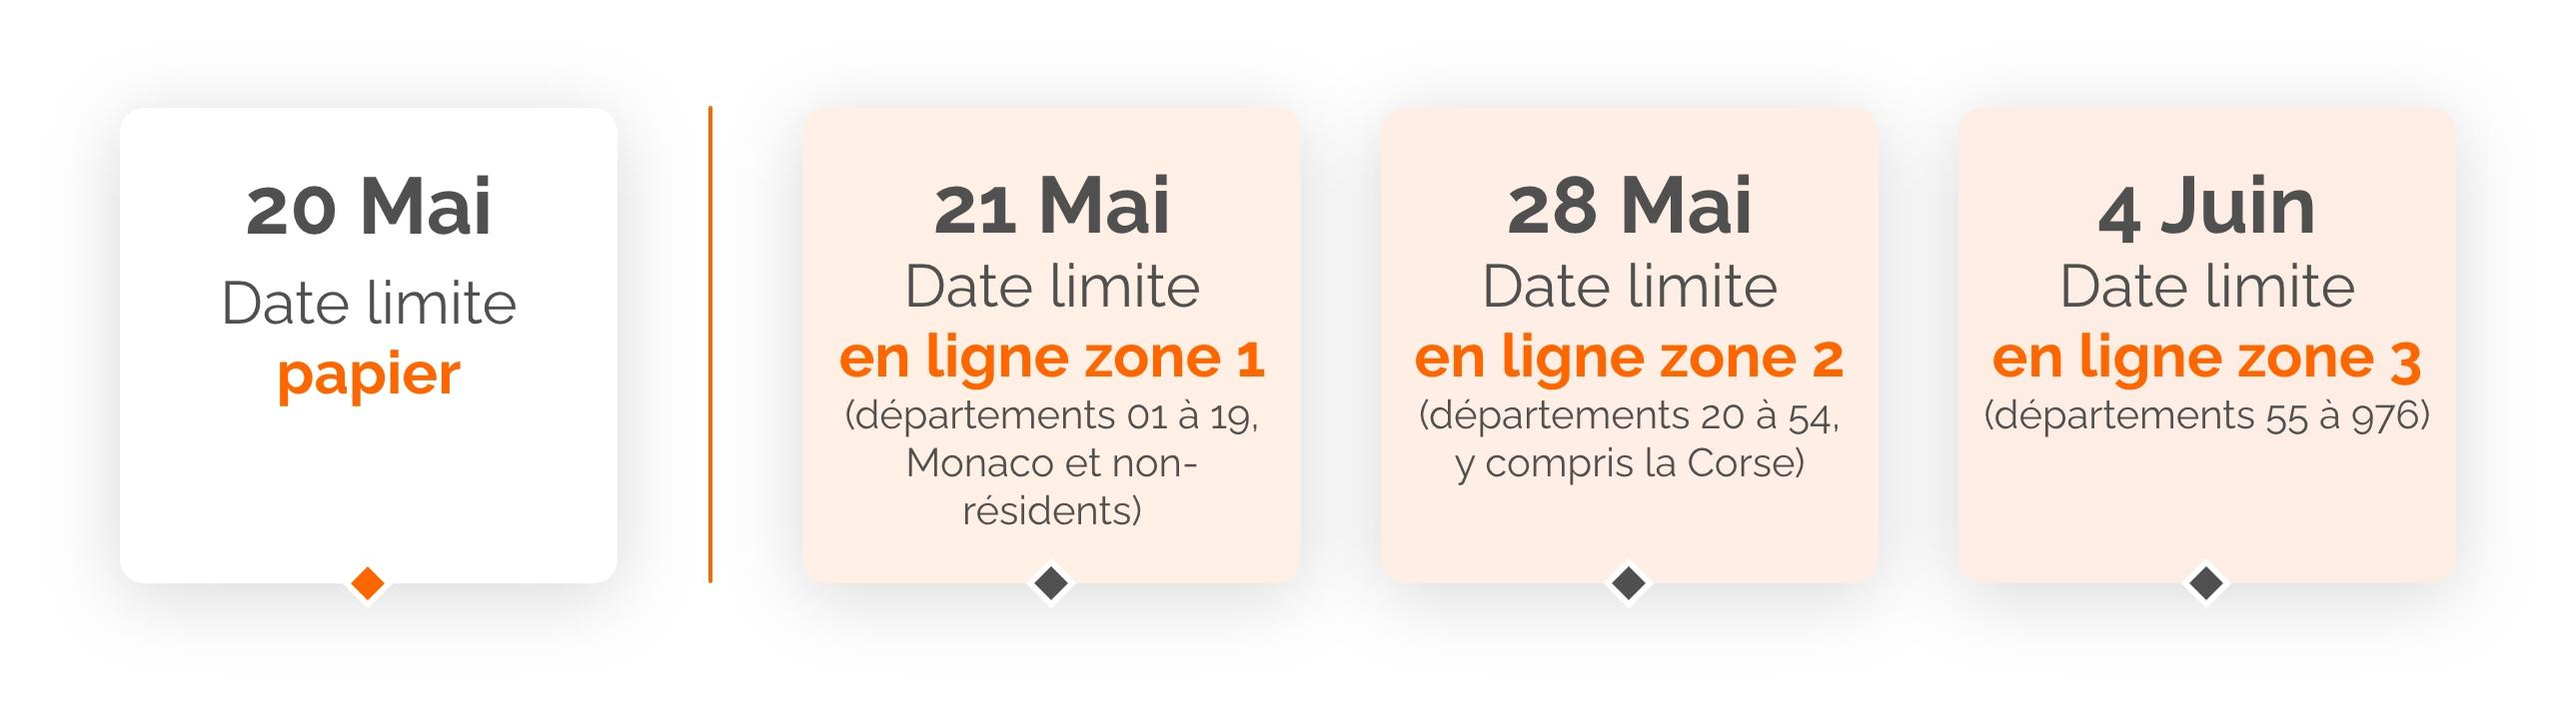
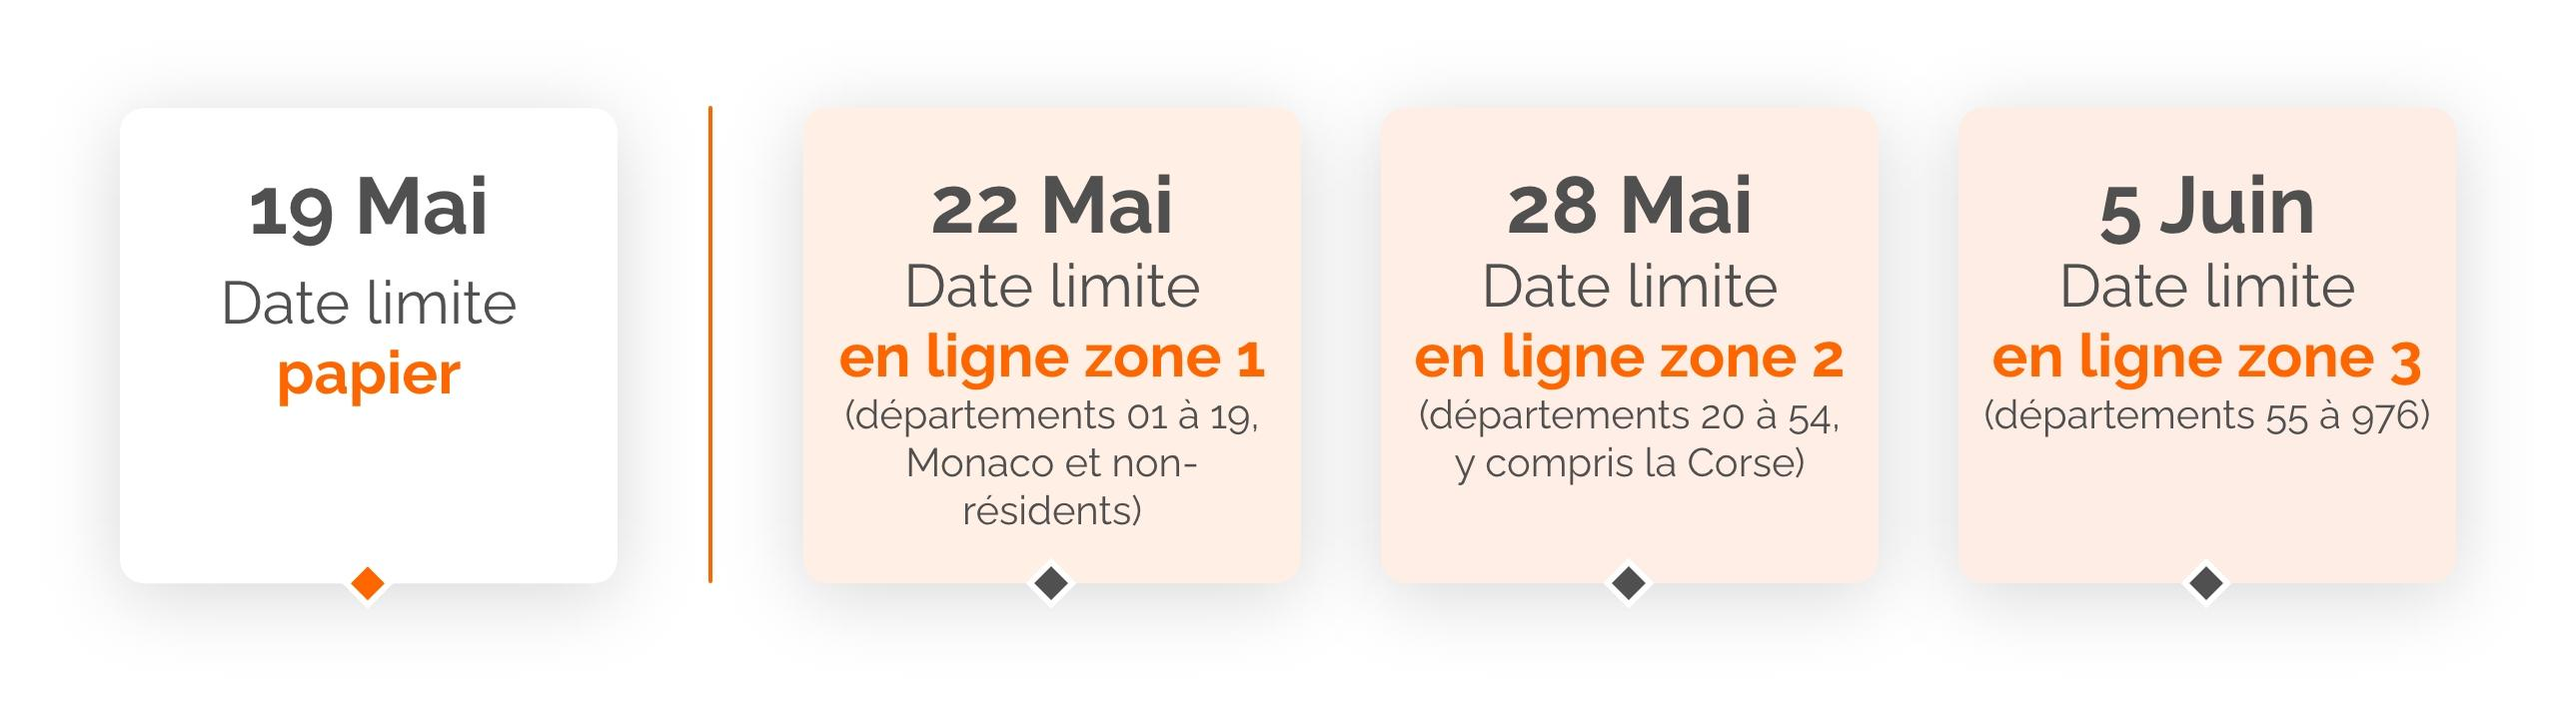
fix: issue

diff --git a/src/lib/components/StickyBanner.svelte b/src/lib/components/StickyBanner.svelte
@@ -31,12 +31,12 @@
 
 <div
     in:fade
-    class="hidden fixed top-0 bg-[#4D54D6] bg-opacity-70 backdrop-blur-sm md:flex flex-row items-center justify-center w-full py-6 lg:h-[5rem] xl:h-[7rem] 2xl:h-[9rem] z-20"
+    class="hidden fixed top-0 bg-[#4D54D6] bg-opacity-70 backdrop-blur-sm md:flex flex-row items-center justify-center w-full py-3 lg:py-4 xl:py-6 lg:h-[5rem] xl:h-[7rem] 2xl:h-[9rem] gap-2 lg:gap-4 xl:gap-6 px-3 lg:px-6 z-20"
 >
-    <a target="_blank" href={passUtmParamsToLink("https://curie.fr/")}>
+    <a target="_blank" href={passUtmParamsToLink("https://curie.fr/")} class="shrink-0 mr-4 lg:mr-8 xl:mr-12">
         <img
             src="/logo_curie.png"
-            class="md:w-[10rem] xl:w-[16rem] mx-8"
+            class="w-[7rem] lg:w-[9rem] xl:w-[13rem] 2xl:w-[16rem]"
             alt="curie"
         />
     </a>
@@ -52,25 +52,25 @@
         class="flex flex-col items-center justify-center"
     >
         <span
-            class="text-white hover:underline underline-offset-4 font-Raleway font-bold lg:text-xl mx-4"
+            class="text-white hover:underline underline-offset-4 font-Raleway font-bold text-sm lg:text-base xl:text-xl text-center max-w-[5rem] lg:max-w-[6rem] xl:max-w-none"
         >
             Les projets soutenus
         </span>
     </button>
     <button
         on:click={() => (isPopupVisible = !isPopupVisible)}
-        class="mx-4 flex flex-col items-center justify-center"
+        class="flex flex-col items-center justify-center"
     >
         <span
-            class="text-white font-Raleway hover:underline underline-offset-4 font-bold lg:text-xl"
+            class="text-white font-Raleway hover:underline underline-offset-4 font-bold text-sm lg:text-base xl:text-xl text-center max-w-[8rem] xl:max-w-none"
         >
-            Calculer ma réduction d'impôt
+            Calculer ma réduction d’impôt
         </span>
     </button>
     <a
         target="_blank"
         href={passUtmParamsToLink("https://aider.curie.fr/if26/?utm_campaign=26ifi&utm_medium=organic&utm_source=landing")}
-        class="mx-8 bg-[#FF6600] text-center uppercase text-xs xl:text-base 2xl:text-xl text-white w-[15rem] mr-2 2xl:w-[20rem] py-2 font-Raleway font-bold hover:border-2 hover:border-white transition-all relative"
+        class="bg-[#FF6600] text-center uppercase text-[10px] lg:text-xs xl:text-base 2xl:text-xl text-white w-[8rem] lg:w-[11rem] xl:w-[15rem] 2xl:w-[20rem] py-2 font-Raleway font-bold hover:border-2 hover:border-white transition-all relative shrink-0"
     >
         JE FAIS UN DON<br />
         Déductible de<br />
@@ -79,7 +79,7 @@
     <a
         target="_blank"
         href={passUtmParamsToLink("https://aider.curie.fr/don149/?utm_campaign=26ifi&utm_medium=organic&utm_source=landing")}
-        class=" mx-8 bg-[#4D54D6] text-center uppercase text-xs xl:text-base 2xl:text-xl text-white w-[15rem] mr-2 2xl:w-[20rem] py-2 font-Raleway font-bold hover:border-2 hover:border-white transition-all"
+        class="bg-[#4D54D6] text-center uppercase text-[10px] lg:text-xs xl:text-base 2xl:text-xl text-white w-[8rem] lg:w-[11rem] xl:w-[15rem] 2xl:w-[20rem] py-2 font-Raleway font-bold hover:border-2 hover:border-white transition-all shrink-0"
     >
         JE FAIS UN DON<br />
         déductible de<br />
@@ -719,7 +719,7 @@
                                     readonly="True"
                                     placeholder={montantIr !== undefined
                                         ? Math.round(
-                                              montantIr * 0.32
+                                              montantIr * 0.34
                                           ).toLocaleString("fr-FR")
                                         : " "}
                                     class="pl-2 rounded-3xl border-2 text-left w-[22vh] h-[5vh] violetC border-gray-500"

diff --git a/src/lib/components/HeroSection.svelte b/src/lib/components/HeroSection.svelte
@@ -113,7 +113,7 @@
 </div>
 
 <div
-    class="bg-[url('/header-desktop-test.png')] hidden bg-fixed bg-cover bg-no-repeat w-full h-screen relative md:flex items-center justify-center z-10"
+    class="bg-[url('/header-desktop-test.png')] hidden bg-fixed bg-cover bg-no-repeat w-full h-screen relative md:flex bg-center items-center justify-center z-10"
 >
     {#if StickyBannerVisible}
         <StickyBanner />
